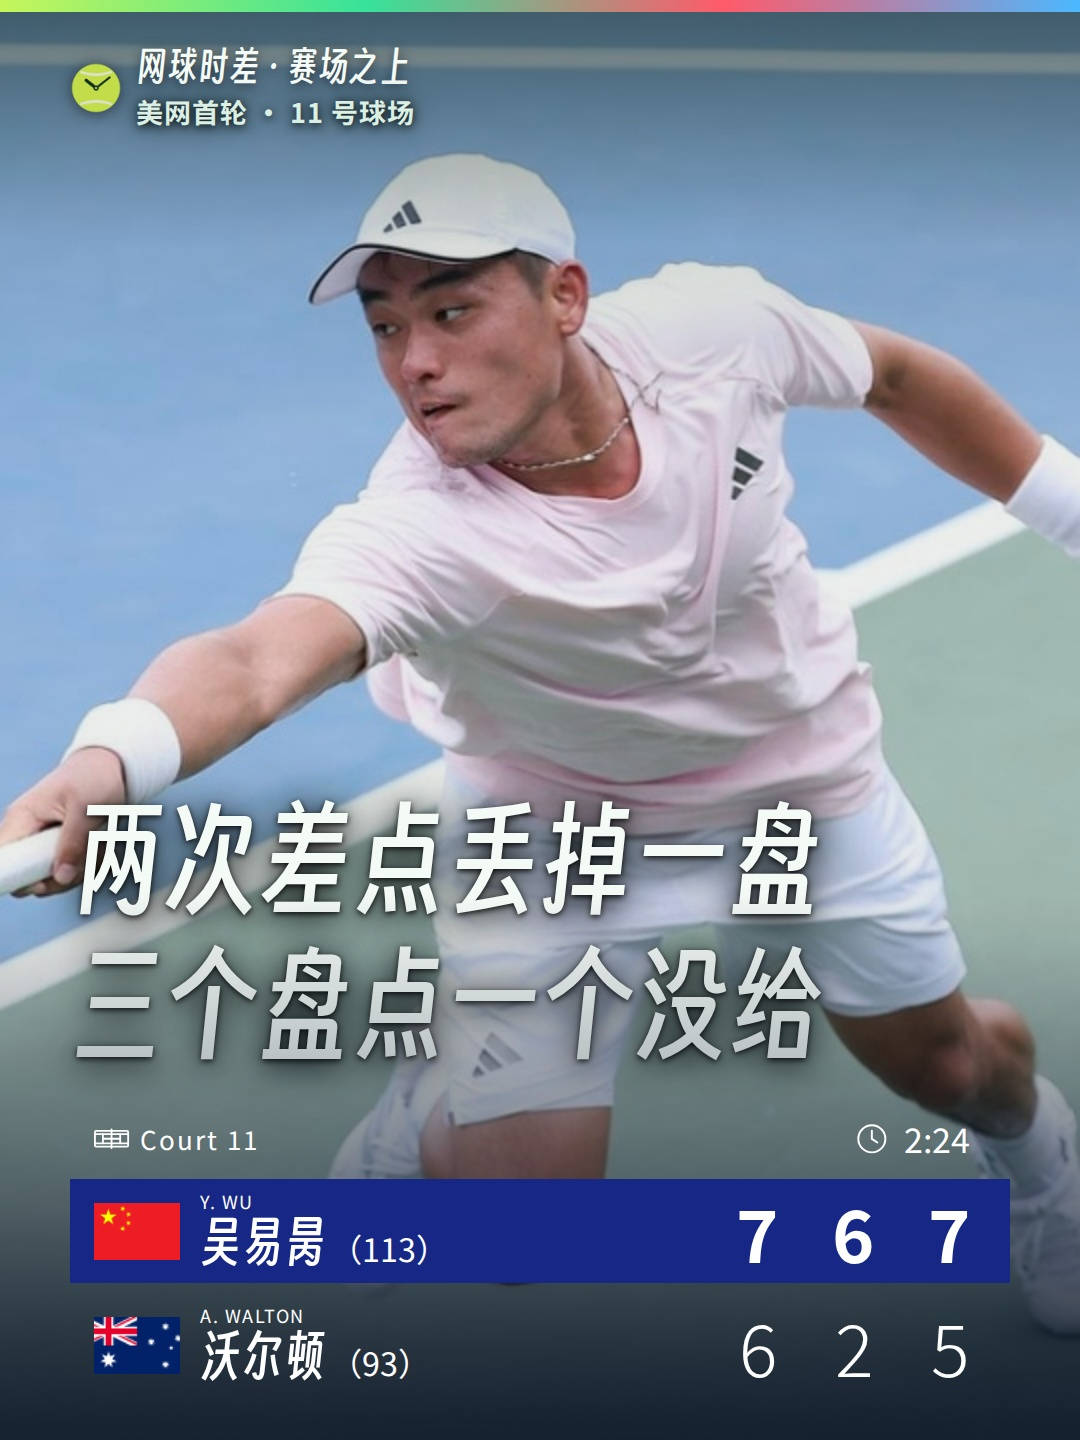
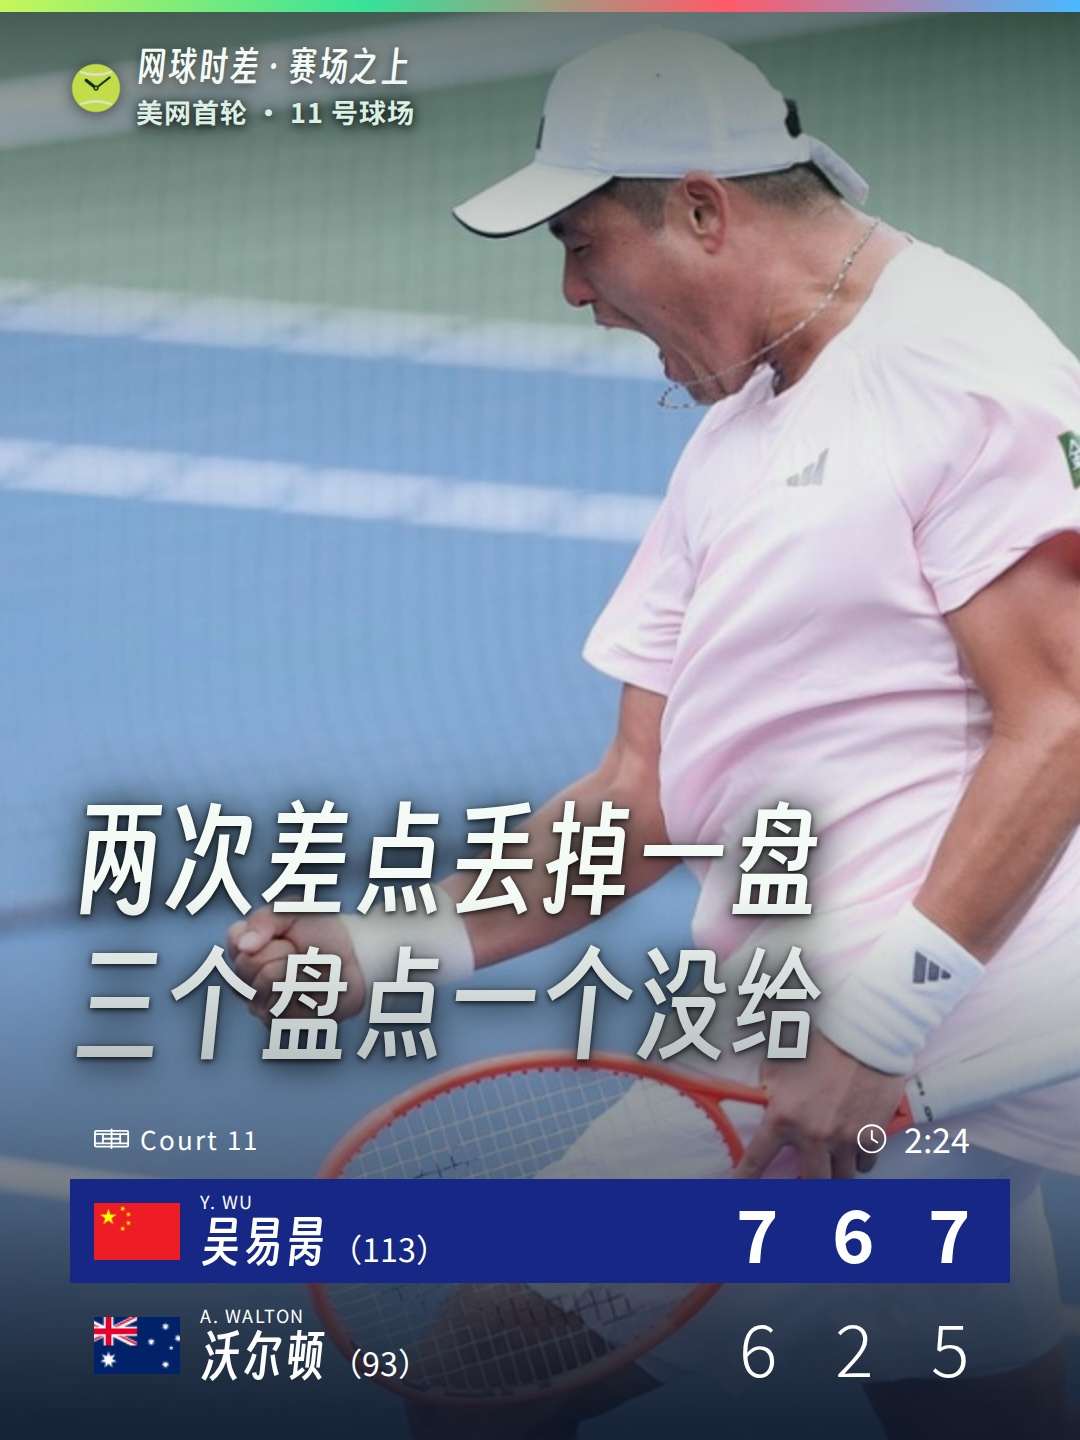
reel: wu-walton 封面换成账号所有者指名的那张（低头怒吼＋攥拳） (#681)
账号所有者甩图过来：「这张好」——美网官方本场实拍 reacts_7405。

它的几何和上一版正好反过来：庆祝那张头顶在源图 47%、脸落 y765~1040
撞钩子；这张头顶 3%、脸落 y40~390 撞台头。两头都推不动——fit:cover
竖向正好铺满，源图最上面那个像素永远映射到输出 y=0，zoom 和 focus_y
都动不了它，能调的只有横向。

四版真渲并排比，取 focus 0.34：台头文字收在 x≈420、帽子从 x≈450 起，
横向留 30px；脸够大、左边留干净球场给钩子当底、拳头落在两行钩子之间。
真渲量过：帽顶 y40、下巴 390、钩子墨迹顶 y805，中间空 415px。

fit:"width" 那条路渲过四版（整幅都在、所有文字带都躲开），代价是人小
一大圈，撞上「优先近景特写」——取舍记在 _zoom_why。

这张眼睛是闭着的，撞上 2026-08-21「封面图不要闭眼」——他指名要，照做；
那条规矩防的是从缩略图墙挑到眨眼瞬间，而用力吼出来时眼睛就是挤紧的，
那是表情本身。记在 _portrait_why 和 CLAUDE.md。

diff --git a/CLAUDE.md b/CLAUDE.md
@@ -7260,6 +7260,32 @@ CMS 的引用关系直接把它绑在 MatchID 那条视频上。原始 6206×413
 是 slug 级的，要**手动删掉**才轮得到 `auto-push-reel` 重发。`push.summary` 一个字
 不动（它要和已发的 `copy.html` 标题逐字相同）。
 
+##### ⭐ 同一条片子第三版：**撞哪条带子，由主体在源图里的高低决定**
+
+账号所有者最后自己甩了一张过来（「这张好」）——侧身低头吼、左手攥拳的那张。
+它的几何和前面那张**正好反过来**，而两种都躲不掉：
+
+| 主体在源图里的位置 | 竖向铺满（2.0 倍）之后落在哪 | 撞谁 |
+|---|---|---|
+| 头顶 47%、下巴 72%（庆祝那张） | 脸在 y765~1040 | **钩子** |
+| 头顶 **3%**、下巴 26%（这张） | 脸在 y40~390 | **台头** |
+
+⚠ **两头都是死的**：`fit: cover` 竖向正好铺满，所以**源图最上面那个像素永远映射到
+输出 y=0**——主体在源图顶上，输出就在顶上，`zoom`（Z=1.2 也才把 43px 推到 52px）和
+`focus_y`（zoom=1.0 时本来就是死的）都推不动。**能动的只有横向**：把脑袋挪到台头那行
+字的右边（这条实测：台头文字收在 x≈420、帽子从 x≈450 起，留 30px）。
+
+⚠ 真想把人整个往下挪只有 **`fit: "width"`** 那条路（整幅 16:9 都在、上下垫模糊放大版、
+`focus_y` 这时才活）——渲过四版，拳头和球拍全露出来、所有文字带都躲开了，
+**代价是人小一大圈**，撞上 2026-08-18「优先近景特写、放大到接近铺满」。取舍写进
+`_zoom_why`，别让下一个人重推一遍。
+
+⚠⚠ **而这张的眼睛是闭着的**，撞上账号所有者 2026-08-21 自己定的「封面图一定不要
+闭眼的」——**他指名要这张，照做**。两者不矛盾，那条规矩有边界：它当年防的是
+**「从缩略图墙里挑帧、不小心挑到一个眨眼瞬间」**（表情读不出来、看着像渲坏了）；
+而**用力吼出来时眼睛是挤紧的，那是表情本身**，情绪一眼读得到。
+判据是「这张脸在表达什么」，不是「眼皮开着没有」。
+
 ### 栏目决定封面模板，不是素材凑手决定
 
 剪辑线上跑两个栏目，**模板按栏目选**：
